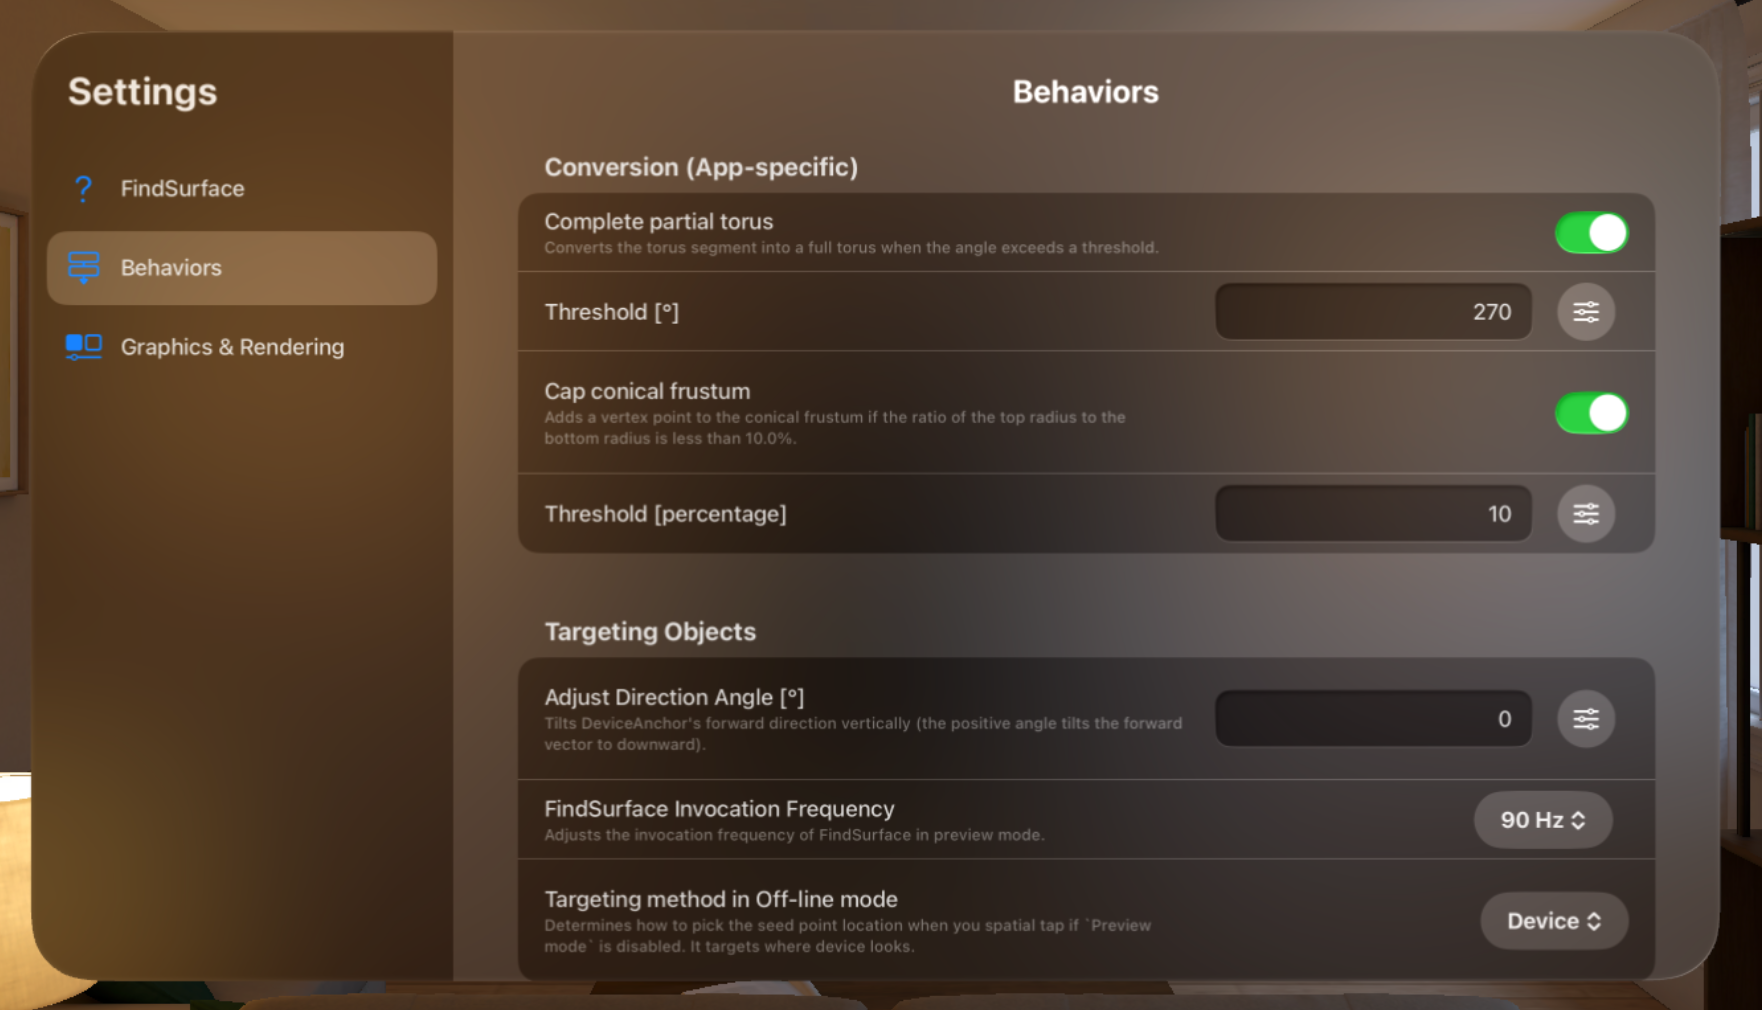
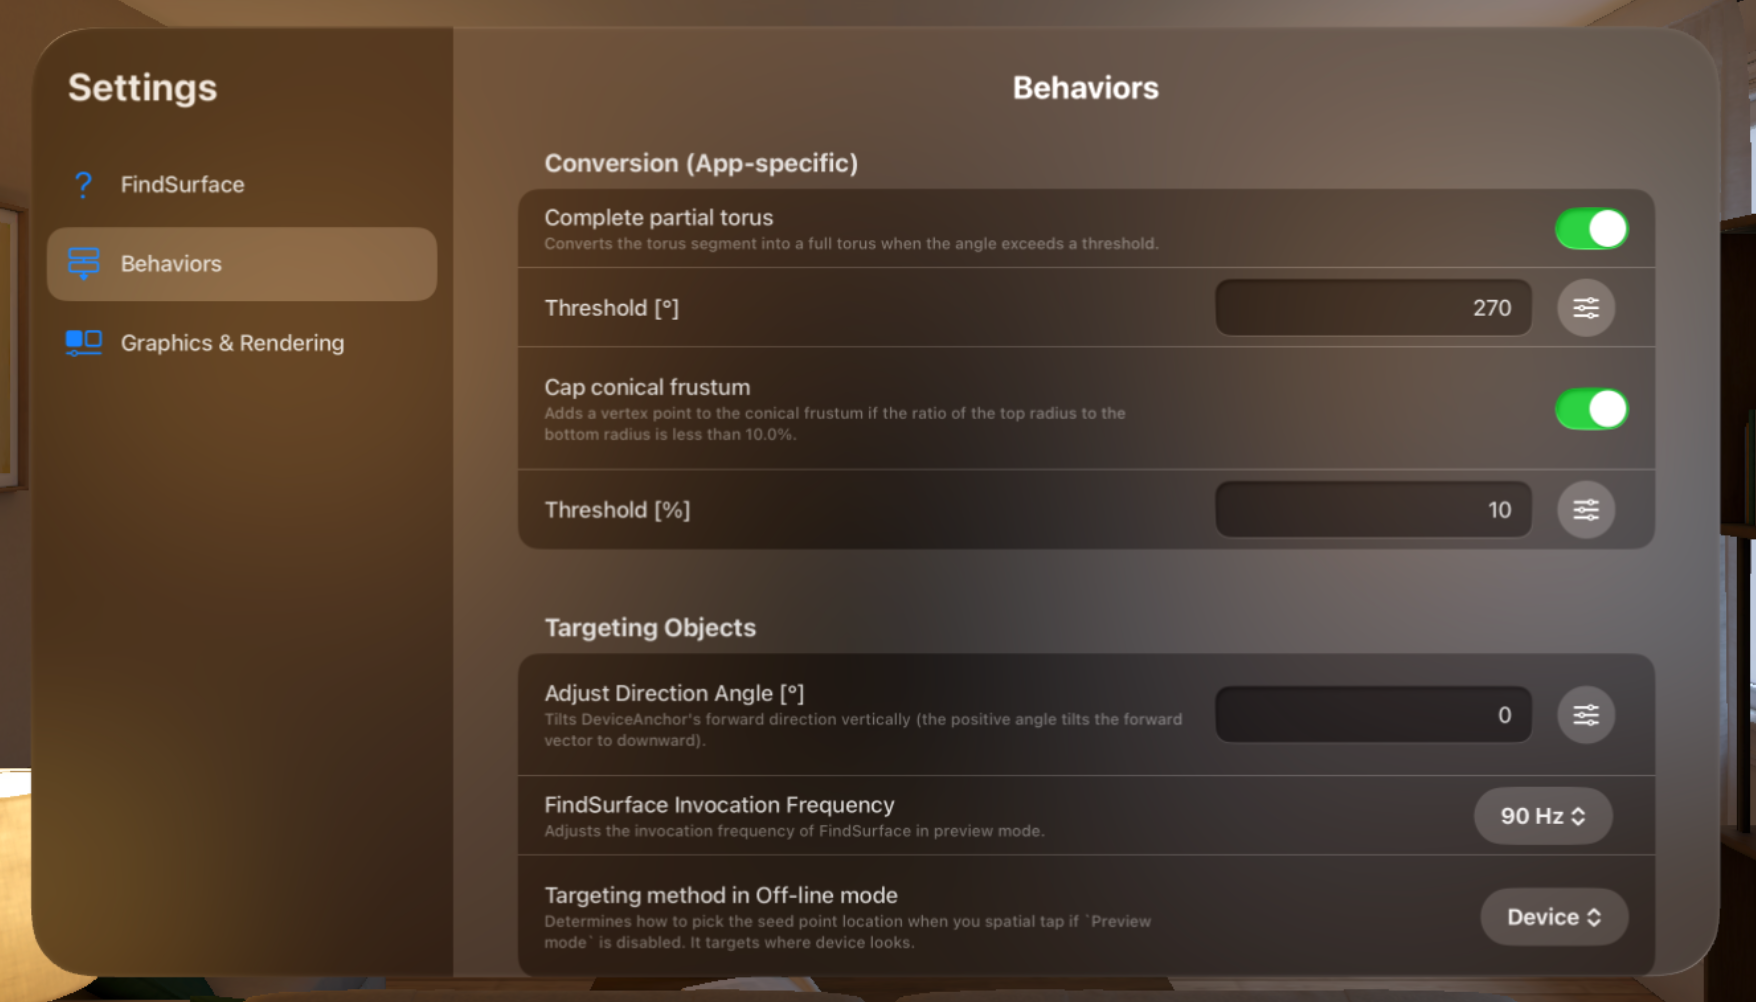
Change 'percentage' to '%'

diff --git a/FindSurfaceRR-visionOS/Views/SettingsView/Category-Behaviors/Sections/ConversionBehaviorSection.swift b/FindSurfaceRR-visionOS/Views/SettingsView/Category-Behaviors/Sections/ConversionBehaviorSection.swift
@@ -50,7 +50,7 @@ struct ConversionBehaviorSection: View {
                                   upperbound: 100) {
                     PercentageStepperDialog(value: binding)
                 } label: {
-                    CaptionedLabel(title: "Threshold [percentage]")
+                    CaptionedLabel(title: "Threshold [%]")
                 }
             }
         }

diff --git a/USERGUIDE.md b/USERGUIDE.md
@@ -117,7 +117,7 @@ On `Behaviors` tab, options that can change the app's behavior are listed.
 
 - `Complete partial torus` and `Threshold [°]` convert the torus segment into a full torus when the angle exceeds a threshold. The threshold is set to 270° by default and any torus segments having the tube angle of more than 270° will be converted to a full torus.
 
-- `Cap conical frustum` and `Threshold [percentage]` convert the conical frustum into a cone by adding a vertex point if the ratio of the top radius to the bottom radius is less than a threshold. The threshold is set to 10% by default and any conical frustums having the top radius/bottom radius ratio less than 10% will be converted to a cone.
+- `Cap conical frustum` and `Threshold [%]` convert the conical frustum into a cone by adding a vertex point if the ratio of the top radius to the bottom radius is less than a threshold. The threshold is set to 10% by default and any conical frustums having the top radius/bottom radius ratio less than 10% will be converted to a cone.
 
 - `Adjust Device Anchor direction`: Lower the center-of-sight indicator (the black sphere) on the screen.
     > **Note**: While testing our app, we realized that when wearing the Apple Vision Pro, looking directly at the center of the sight (toward the negative Z axis of DeviceAnchor's `originFromAnchorTransform`) can cause eye strain by making users raise their eyes, despite individual differences. Considering advice from ISO ergonomics standards 9241-5, which recommend a -35° from the rest angle, we have added an option to adjust this direction from 0° to 25° downward.

diff --git a/settings-window.md b/settings-window.md
@@ -42,7 +42,7 @@ On `Behaviors` tab, options that can change the app's behavior are listed.
 
 - `Complete partial torus` and `Threshold [°]` convert the torus segment into a full torus when the angle exceeds a threshold. The threshold is set to 270° by default and any torus segments having the tube angle of more than 270° will be converted to a full torus.
 
-- `Cap conical frustum` and `Threshold [percentage]` convert the conical frustum into a cone by adding a vertex point if the ratio of the top radius to the bottom radius is less than a threshold. The threshold is set to 10% by default and any conical frustums having the top radius/bottom radius ratio less than 10% will be converted to a cone.
+- `Cap conical frustum` and `Threshold [%]` convert the conical frustum into a cone by adding a vertex point if the ratio of the top radius to the bottom radius is less than a threshold. The threshold is set to 10% by default and any conical frustums having the top radius/bottom radius ratio less than 10% will be converted to a cone.
 
 - `Adjust Device Anchor direction`: Lower the center-of-sight indicator (the black sphere) on the screen.
     > **Note**: While testing our app, we realized that when wearing the Apple Vision Pro, looking directly at the center of the sight (toward the negative Z axis of DeviceAnchor's `originFromAnchorTransform`) can cause eye strain by making users raise their eyes, despite individual differences. Considering advice from ISO ergonomics standards 9241-5, which recommend a -35° from the rest angle, we have added an option to adjust this direction from 0° to 25° downward.
